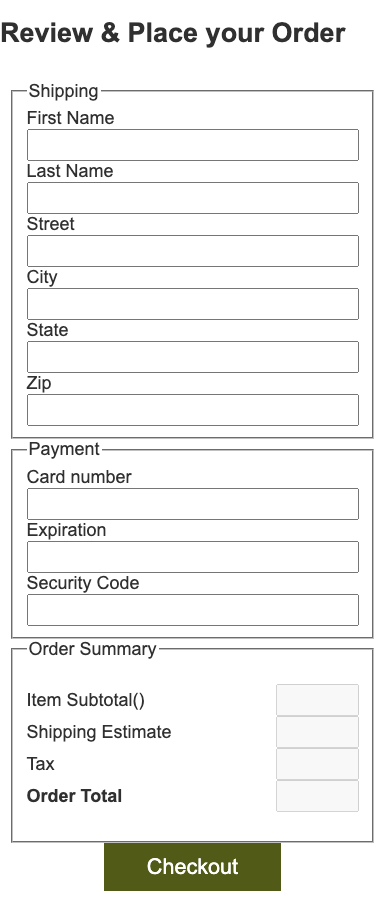
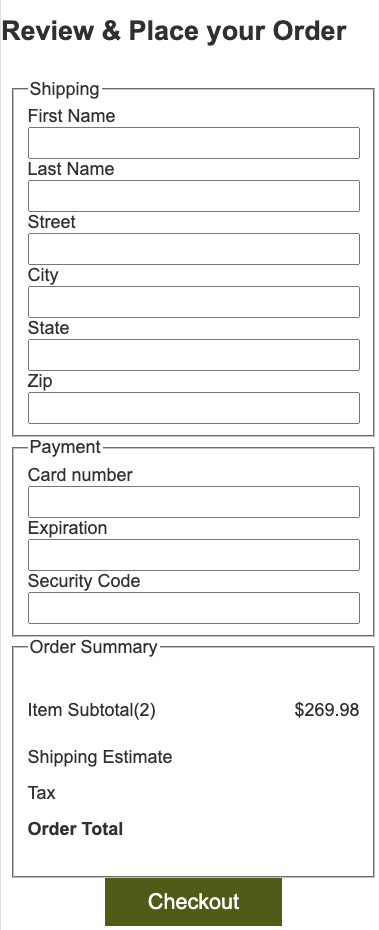
update team6

Changed region(s): [[0.0, 0.0, 1.0, 0.9989]]

diff --git a/ponder/team06.html b/ponder/team06.html
@@ -95,11 +95,12 @@
                 </figure>
               </div>
               <p>
-                Notice that the inputs for the last section are disabled. We
-                need that information in the form so that it can be sent to the
-                server, but we don't want the users to be able to edit that
-                themselves! We could have embedded it in a hidden input...but we
-                needed to display it anyway, so this works.
+                Notice that the last section is just displaying that
+                information, but not in inputs. We need that information to be
+                sent to the server, but we don't want the users to be able to
+                edit that themselves! In the function that prepares the data to
+                send to the server that we will write we will need to add those
+                totals back in.
               </p>
               <p>
                 In a real site the server should verify the totals as well to
@@ -199,14 +200,22 @@
                   everywhere it found the name that you want to change. If you
                   left-click on one of the lines it will open the file side by
                   side with how it was before the changes and how it will be
-                  after. If the change looks good then right-click on the same
-                  line in the Preview panel and select 'apply Refactoring'.
-                  Review each change and apply it after making sure it looks
-                  good.
+                  after. Review each change. If the changes looks good then
+                  right-click on the same line in the Preview panel and select
+                  'apply Refactoring'. Then go File->Save All
                 </li>
                 <li>
-                  Finally we need to adjust the filename of the module so that
-                  it reflects the change.
+                  Next we need to adjust the filename of the module so that it
+                  reflects the change. If you right-click on the file in the
+                  file explorer in VS Code and select rename there...you should
+                  get a popup message that asks if you want to rename the
+                  imports as well. Say yes! File->Save All again
+                </li>
+                <li>
+                  Finally just to make sure nothing was missed...on the side of
+                  your VsCode window click on the magnifying glass icon
+                  (ctrl/cmd + shift + F). Type <kbd>ProductData</kbd> and if
+                  there are any more instances change them.
                 </li>
                 <li>
                   Test the product list and product detail pages to make sure
@@ -223,15 +232,45 @@
                 Add a new method to our newly renamed
                 <kbd>ExternalServices</kbd> class. Call it <kbd>checkout</kbd>.
                 It should accept an object that represents our order. The object
-                should look like the following:
+                should look like the following (order does not matter):
               </p>
-              <pre><code class="lang-js">{ orderDate: '2021-1-10',
-orderTotal: 116,
-shipping: 10,
-tax: 6,
-items: [
-    { description: ""}                    
-] </code></pre>
+              <pre><code class="lang-js">{ 
+  orderDate: '20210125',
+  fname: "John",
+  lname: "Doe",
+  street: "123 Main",
+  city: "Rexburg",
+  state: "ID",
+  zip: "83440",
+  card-number: "1234123412341234",
+  expiration: "8/21",
+  code: "123",
+  items: [{
+    id: "20CXG"
+    name: "The North Face Pivoter 27 L Backpack"
+    price: 39.99,
+    quantity: 1
+  }, {
+    id: "14GVF",
+    name: "Marmot 5°F Rampart Down Sleeping Bag - 650 Fill, Mummy (For Men and Women)",
+    price: 229.99,
+    quantity: 1
+  }],
+  orderTotal: "298.18",
+  shipping: 12,
+  tax: "16.20"
+}</code></pre>
+              <p>
+                Use <kbd>1234123412341234</kbd> for the card number,
+                <kbd>123</kbd> for the security code, and any expiration in the
+                future if you want your order to succeed.
+              </p>
+              <p class="callout">
+                For testing to save you time and typing remember that you can
+                set the <code>value=""</code> property of an html input
+                element...just remember to remove your defaults once everything
+                is working.
+              </p>
               <p>
                 The method should POST that object (remember to stringify your
                 object before sending it!) to the address above
@@ -252,26 +291,12 @@ items: [
                   <code>event.preventDefault()</code> in the listener function.
                 </p>
               </div>
-              <!-- END STEP -->
-            </li>
-          </ol>
-          <h3>Stretch Goals</h3>
-
-          <ol class="bigSteps">
-            <li>
-              <!-- BEGIN STEP -->
-              <h3>Handle the order response</h3>
               <p>
-                Once the order is submitted to the server it will respond with a
-                success or an error. The application should give feedback to the
-                user based on which result was sent back.
+                You can consider this activity completed when you receive a
+                response from your POST to the server. Next week the team
+                activity will continue this by handling the success and failure
+                responses appropriately.
               </p>
-              <p>
-                On success you should give the user a message indicating that,
-                and clear out the cart.
-              </p>
-              <p>On error let them know something went wrong.</p>
-
               <!-- END STEP -->
             </li>
           </ol>
